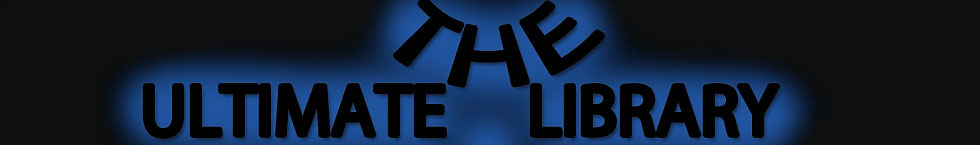
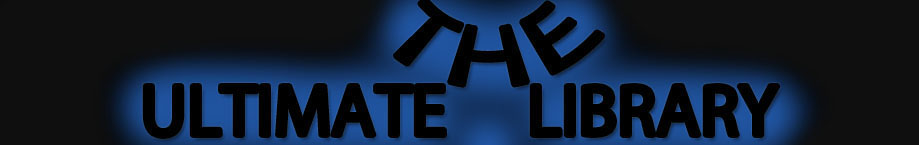
lagt till rubriker på sidorna och ändrat storlek på bannern

diff --git a/css/main.css b/css/main.css
@@ -1,11 +1,16 @@
 /**
  * 	General
  */
+html, body {
+	height: 100%;
+	overflow: hidden;
+}
+
 body {
 	background: rgb(15,15,15);
 }
 
-a:link {
+a:link, a {
 	color: black;
 	font-family: "helvetica", "sans-serif";
 	text-decoration: none;
@@ -19,6 +24,15 @@ p {
 h2 {
 	font-family: "Arial", "Helvetica", "sans-serif";
 	font-size: 20px;
+	font-weight: bold;
+	margin-top: 0px;
+	color: rgb(240,240,240);
+	clear: both;
+}
+
+h1 {
+	font-family: "Arial", "Helvetica", "sans-serif";
+	font-size: 40px;
 	font-weight: bold;
 	margin-top: 0px;
 	color: rgb(240,240,240);
@@ -116,6 +130,7 @@ h2 {
 #container {
 	overflow: auto;
 	margin: 0 auto;
+	min-height: 300px;
 	width: 100%;
 }
 

diff --git a/movies.html b/movies.html
@@ -32,9 +32,13 @@
 						</ul>
 		
 					<li><a href="contact.html">Contact</a></li>
-				</ul>
+				</ul>	
 			</div>
 			
+			<div id="content">
+				<h1>Movie Library</h1>
+			</div>		
+				
 			<div id="footer">
 				<p>Copyright &copy; 2013 Jonathan Jonsson</p>
 			</div>

diff --git a/games.html b/games.html
@@ -34,6 +34,10 @@
 				</ul>
 			</div>
 			
+			<div id="content">
+				<h1>Game Library</h1>
+			</div>
+			
 			<div id="footer">
 				<p>Copyright &copy; 2013 Jonathan Jonsson</p>
 			</div>

diff --git a/series.html b/series.html
@@ -49,6 +49,10 @@
 				</ul>
 			</div>
 
+			<div id="content">
+				<h1>Serie Library</h1>
+			</div>
+			
 			<div id="footer">
 				<p>
 					Copyright &copy; 2013 Jonathan Jonsson
